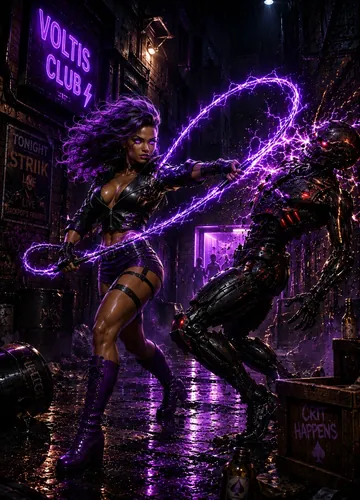
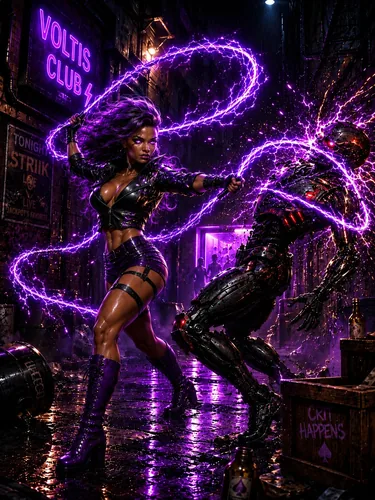
art(cards): new Lytning art; story: Winter Moose moves to L10
Lytning (bolt_lytning): the neon-whip brawler in the Voltis Club alley,
750x1000 plate with a fresh 375x500 thumbnail.

Winter Moose now recruits at L10, Winter Village Sentinels. Every draftable
card sits on exactly one node, so it leaves L12 (The Spirit Tree, now 4).

diff --git a/src/data/story.ts b/src/data/story.ts
@@ -259,7 +259,7 @@ const LEAF: StoryRegion = {
       lore: "The one border DAWN keeps in the open: the Sun's Army rides in daylight while Hibernal and Birch watch the same snow from the treeline. Neither side has ever needed to explain itself."
     },
     { id: "L10", name: "Winter Village Sentinels", kind: "warden", at: { x: 58, y: 23 },
-      requires: ["L9"], tribe: "Grove", roster: ["leaf_citra", "leaf_guardian", "leaf_squanch"], adds: ["leaf_oak", "leaf_sticks"],
+      requires: ["L9"], tribe: "Grove", roster: ["leaf_citra", "leaf_guardian", "leaf_squanch", "leaf_wintermoose"], adds: ["leaf_oak", "leaf_sticks"], // Winter Moose from L12 (owner, 2026-10-05)
       note: "Under the Arctic Veil. The ice wall north is DAWN's border — sealed all campaign.",
       lore: "Sentinels of Rest — not dormant, on duty. Winter holds that a forest which never stops to sleep forgets how to grow, and Squanch has stood the village gate through four of them."
     },
@@ -269,7 +269,7 @@ const LEAF: StoryRegion = {
       lore: "The weathered stones around the Tree are not markers but graves. The first Keepers of every tribe chose the roots over their own season's ground, and Elderroot has not left them since."
     },
     { id: "L12", name: "Heart of Nature: The Spirit Tree", kind: "landmark", at: { x: 58, y: 55 },
-      requires: ["L11"], tribe: "Grove", roster: ["leaf_wintermoose", "leaf_grizzly", "leaf_warden", "leaf_efy", "leaf_fallow"], adds: [] ,
+      requires: ["L11"], tribe: "Grove", roster: ["leaf_grizzly", "leaf_warden", "leaf_efy", "leaf_fallow"], adds: [] , // Winter Moose moved to L10 (owner, 2026-10-05)
       lore: "Elders whisper that the roots reach further down than any Keeper has followed — to something already here when the first tribe arrived. Hartwood does not whisper it, and does not deny it."
     },
     { id: "L13", name: "Jungle Throne", kind: "throne", at: { x: 70.5, y: 71 },
